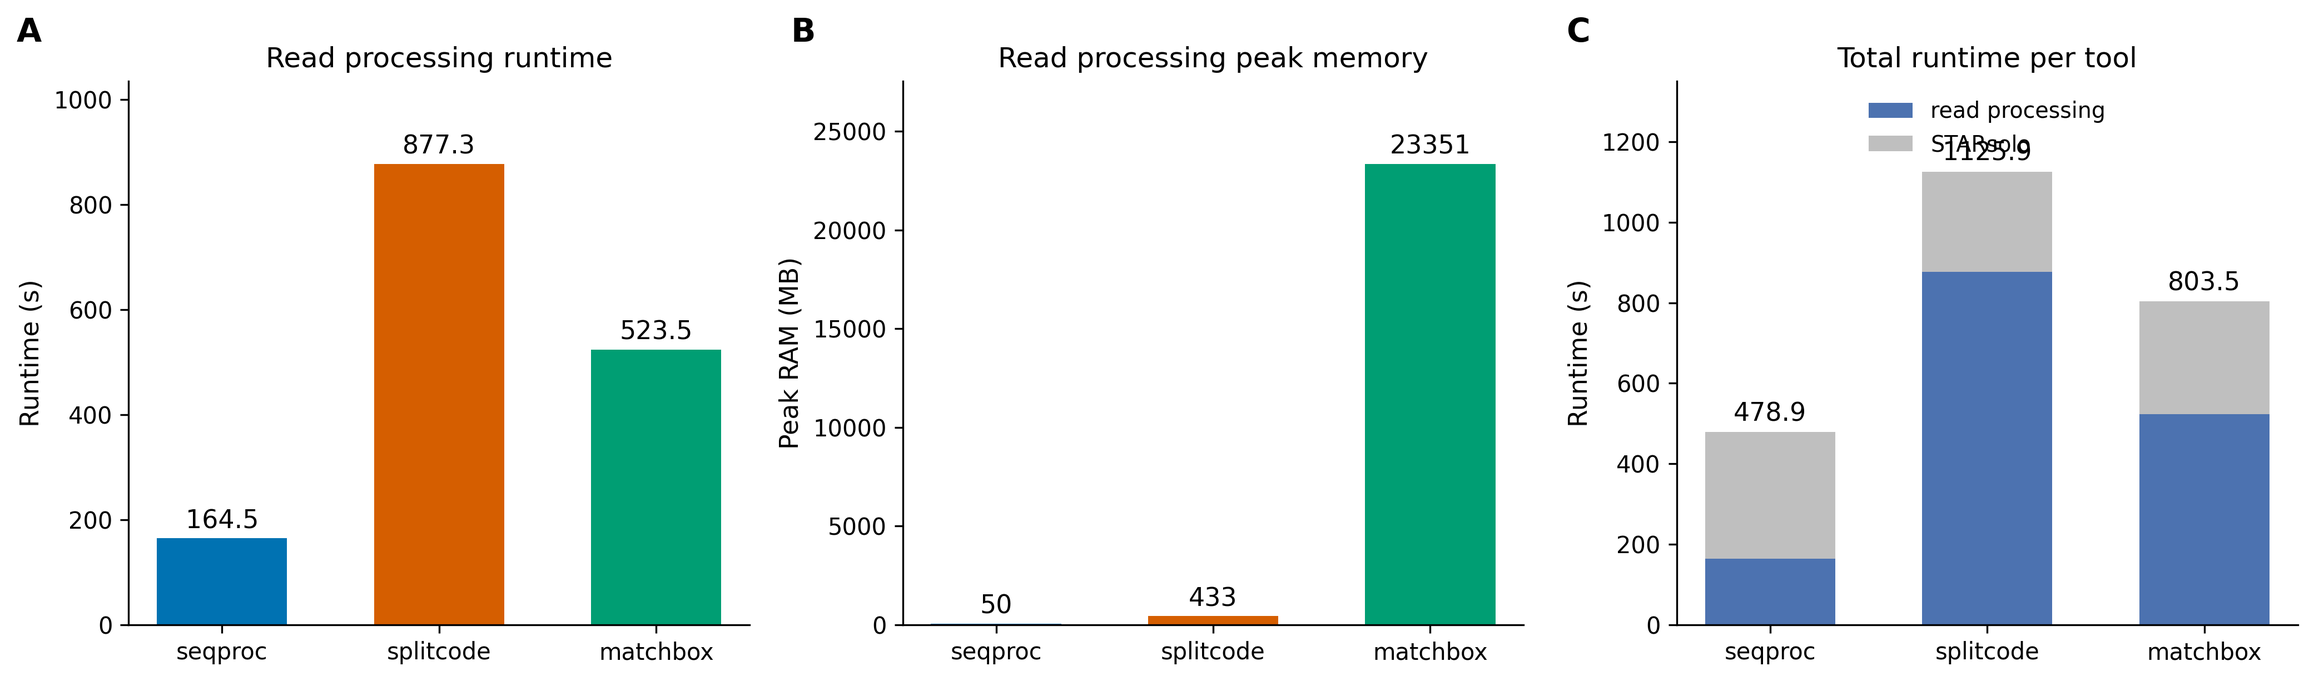
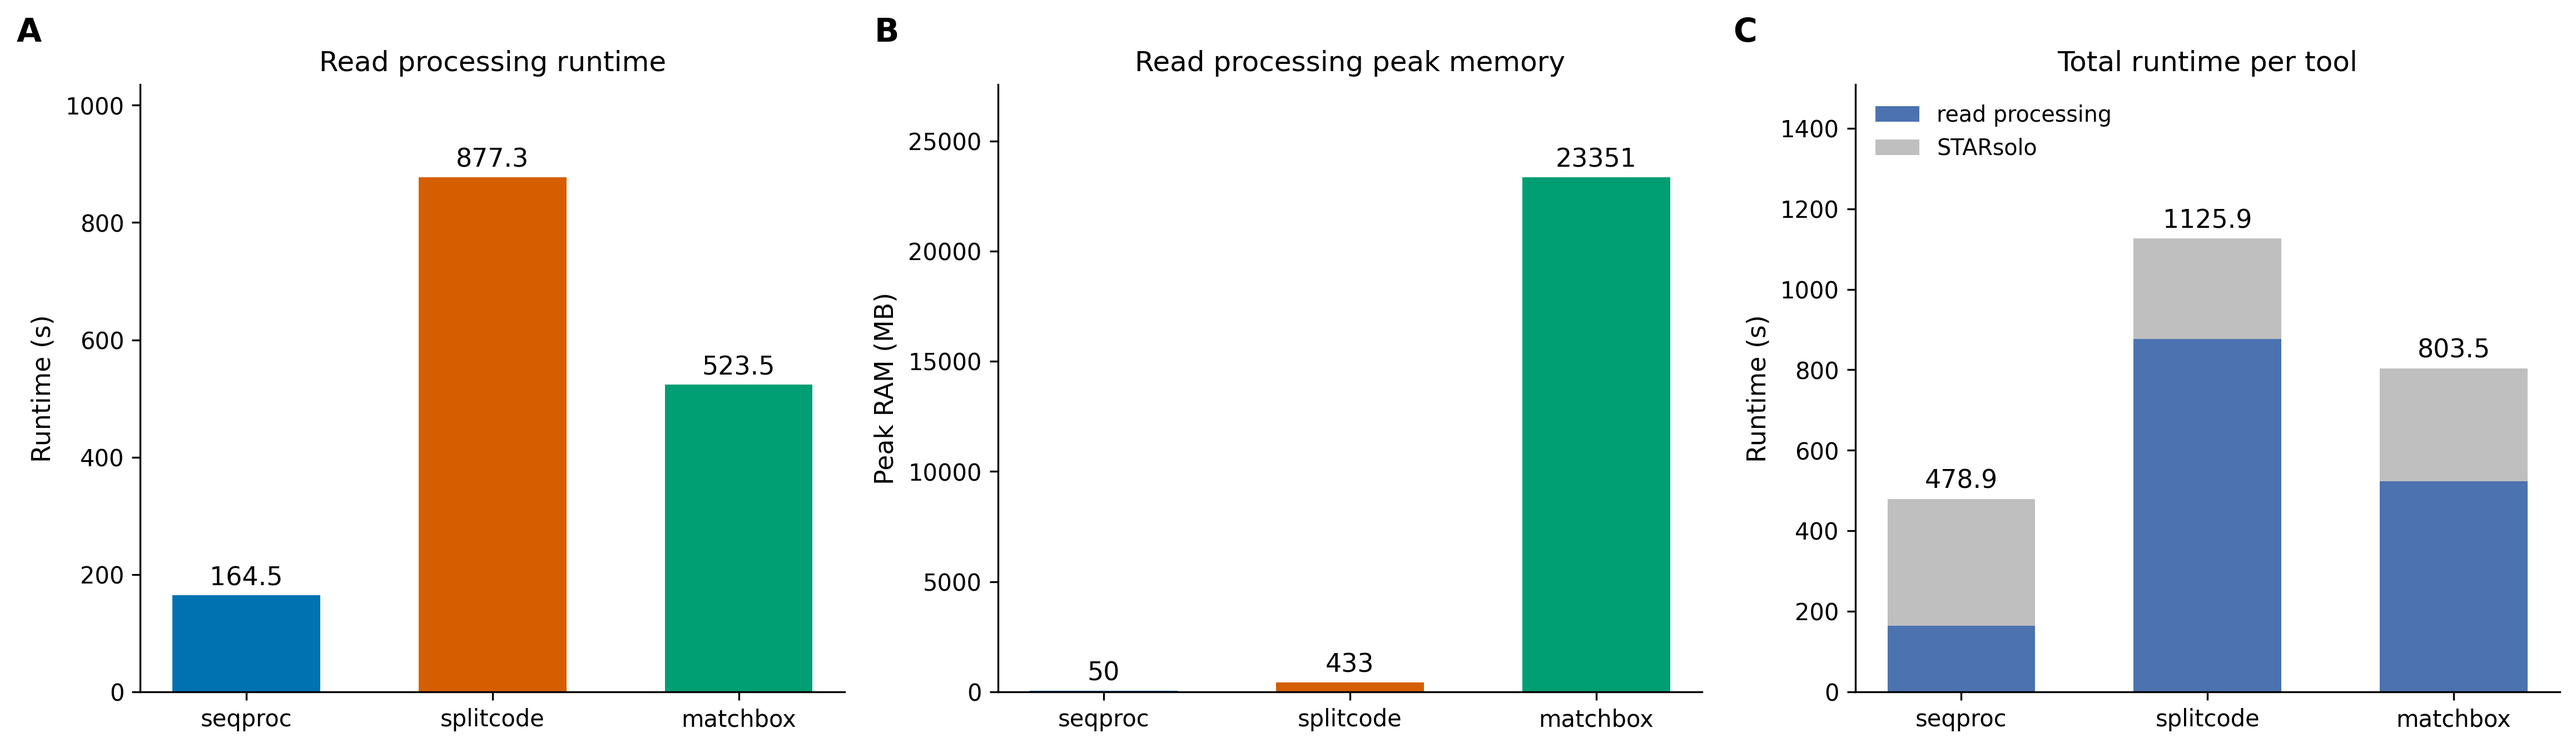
resource_report: wider panels + clear panel C legend; refresh full-data figure

diff --git a/biological_analysis/scripts/resource_report.py b/biological_analysis/scripts/resource_report.py
@@ -31,7 +31,7 @@ def main():
     colors = [tool_color(t, i) for i, t in enumerate(TOOLS)]
 
     # ---- figure: read-processing runtime, peak RAM, and total pipeline runtime ----
-    fig, ax = plt.subplots(1, 3, figsize=(14, 4.2))
+    fig, ax = plt.subplots(1, 3, figsize=(15.5, 4.6))
     x = np.arange(len(TOOLS))
     b0 = ax[0].bar(x, bc_t, 0.6, color=colors)
     ax[0].set_xticks(x); ax[0].set_xticklabels(TOOLS); ax[0].set_ylabel("Runtime (s)")
@@ -51,8 +51,8 @@ def main():
     for xi, tv in zip(x, tot):
         ax[2].text(xi, tv + max(tot) * 0.012, f"{tv:.1f}", ha="center", va="bottom")
     ax[2].set_xticks(x); ax[2].set_xticklabels(TOOLS); ax[2].set_ylabel("Runtime (s)")
-    ax[2].set_title("Total runtime per tool"); ax[2].set_ylim(0, max(tot) * 1.25)
-    ax[2].legend(loc="upper left"); panel(ax[2], "C")
+    ax[2].set_title("Total runtime per tool"); ax[2].set_ylim(0, max(tot) * 1.34)
+    ax[2].legend(loc="upper left", framealpha=0.9); panel(ax[2], "C")
     fig.tight_layout()
     print("saved", save(fig, os.path.join(outdir, "resource_usage")), "(+ .pdf)")
 
